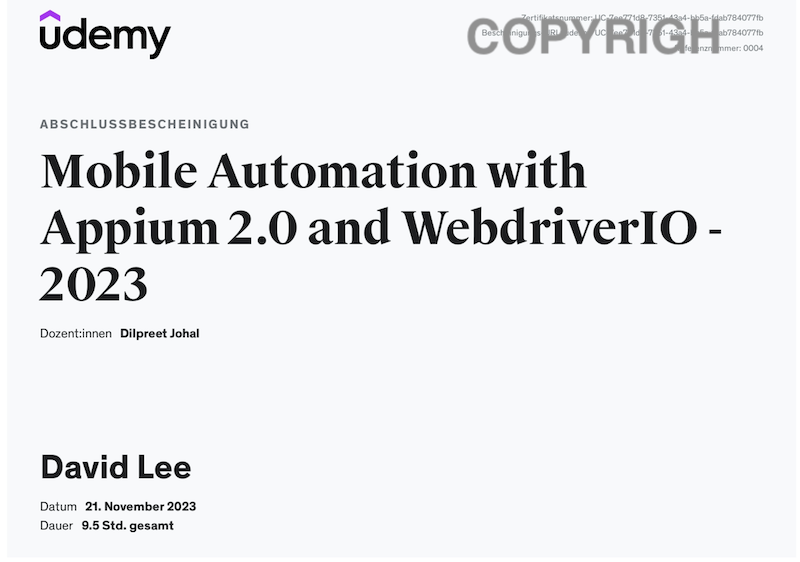
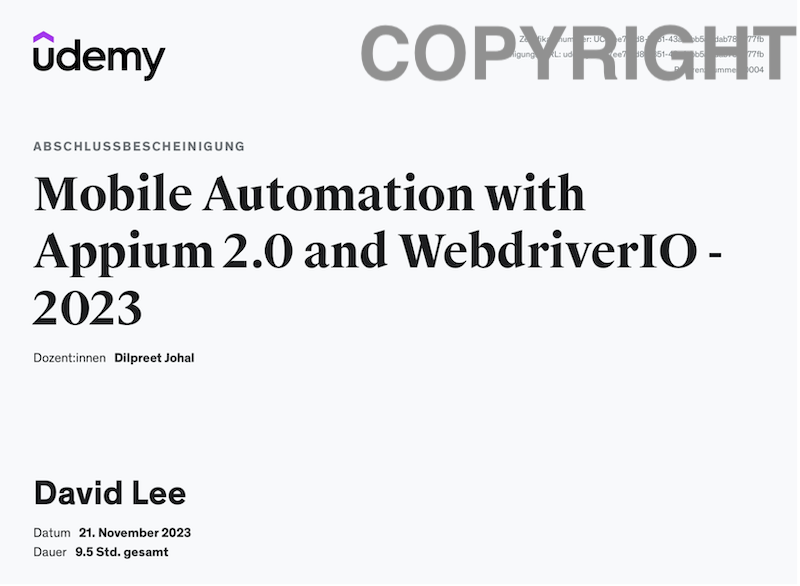
Improve quality of some udemy certifcates

diff --git a/en/index.html b/en/index.html
@@ -198,7 +198,7 @@
                   <img src="../common/assets/img/certificates/graphql-en.png" class="d-block w-50" alt="GraphQL">
                 </div>
                 <div class="carousel-item" data-bs-interval="2000">
-                  <img src="../common/assets/img/certificates/mobileautomation-en.jpg" class="d-block w-50" alt="Mobile Automation">
+                  <img src="../common/assets/img/certificates/mobileautomation-en.png" class="d-block w-50" alt="Mobile Automation">
                 </div>
                 <div class="carousel-item" data-bs-interval="2000">
                   <img src="../common/assets/img/certificates/cypress-en.png" class="d-block w-50" alt="Cypress End 2 End Testing">
